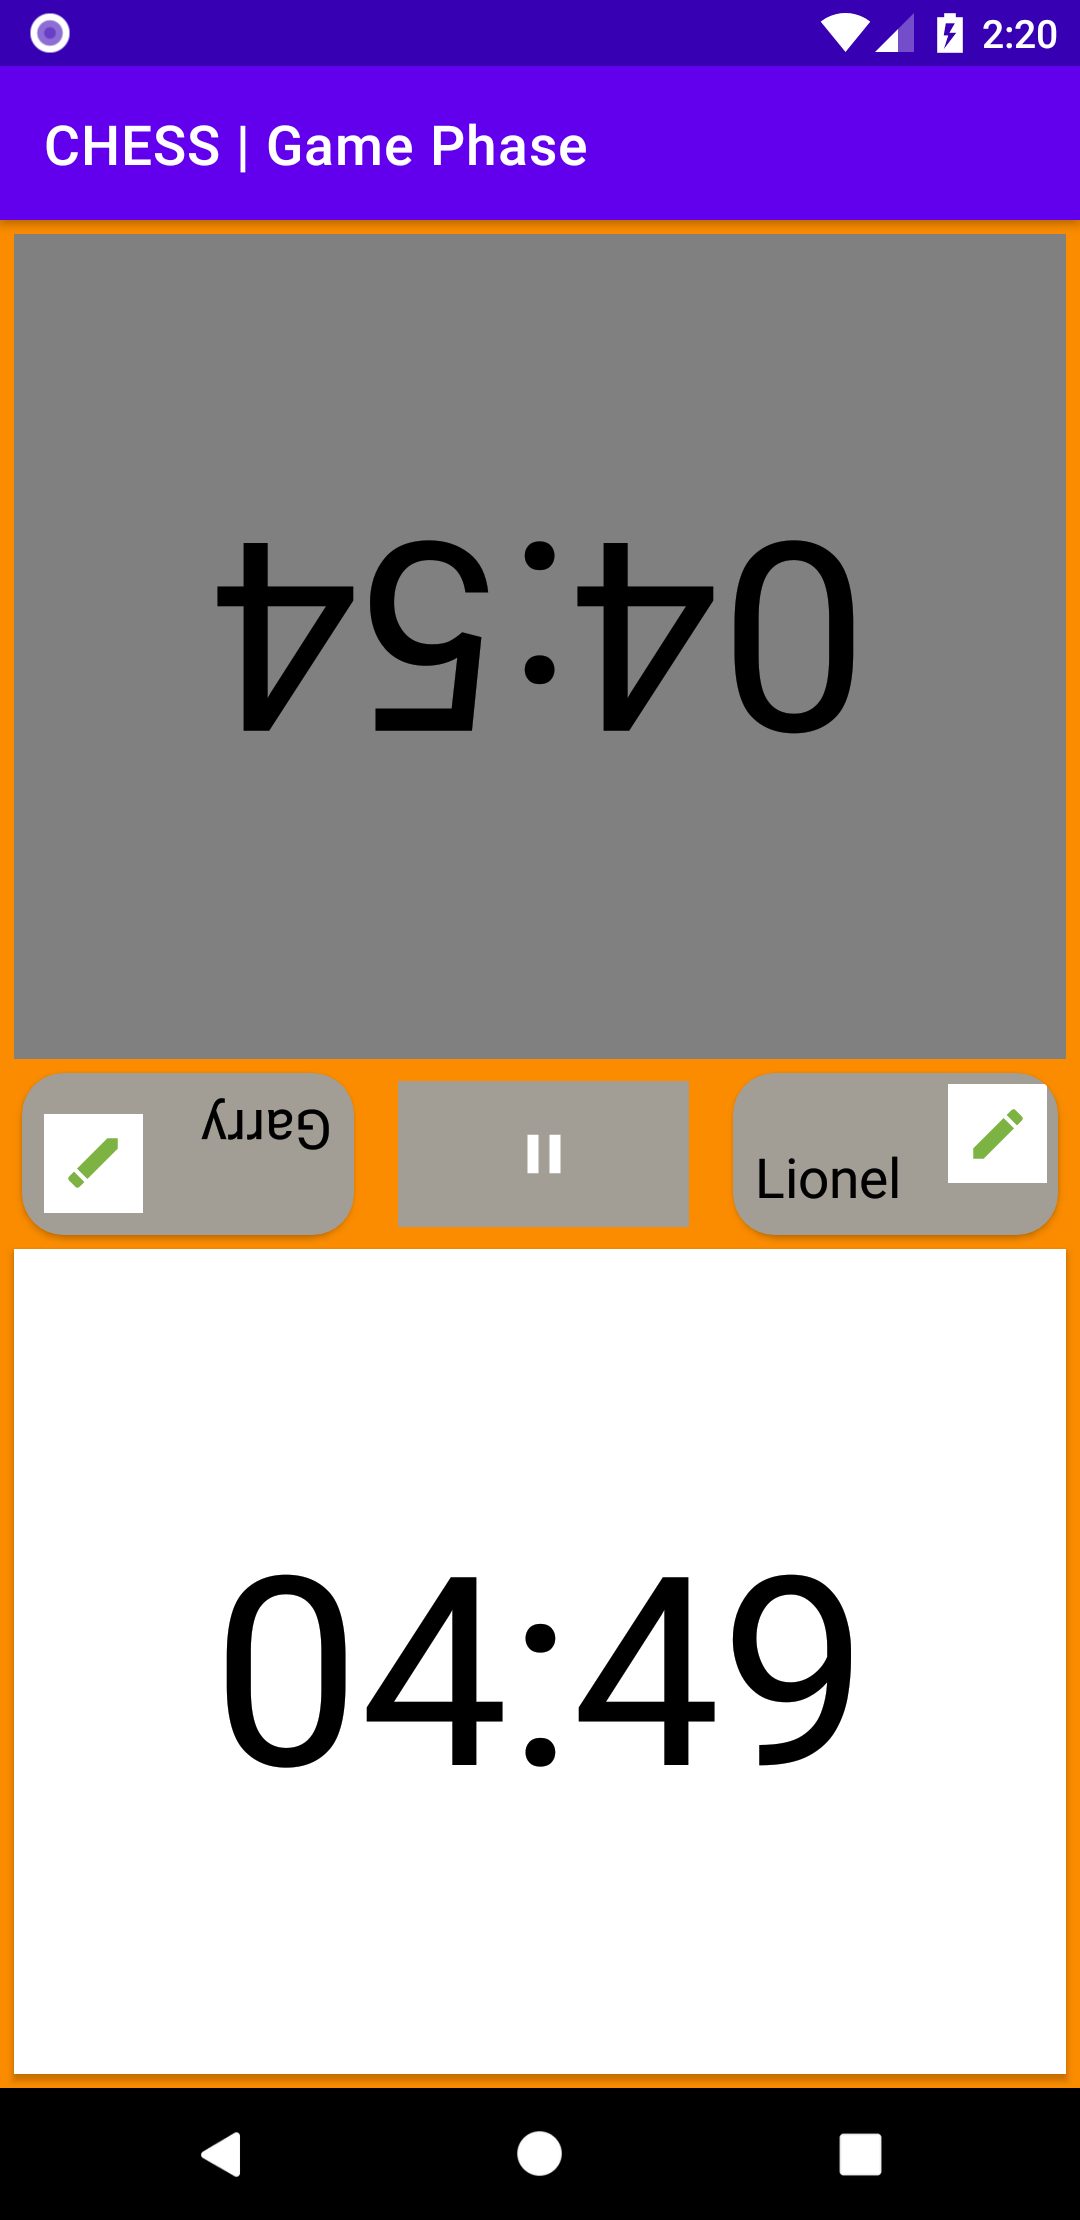
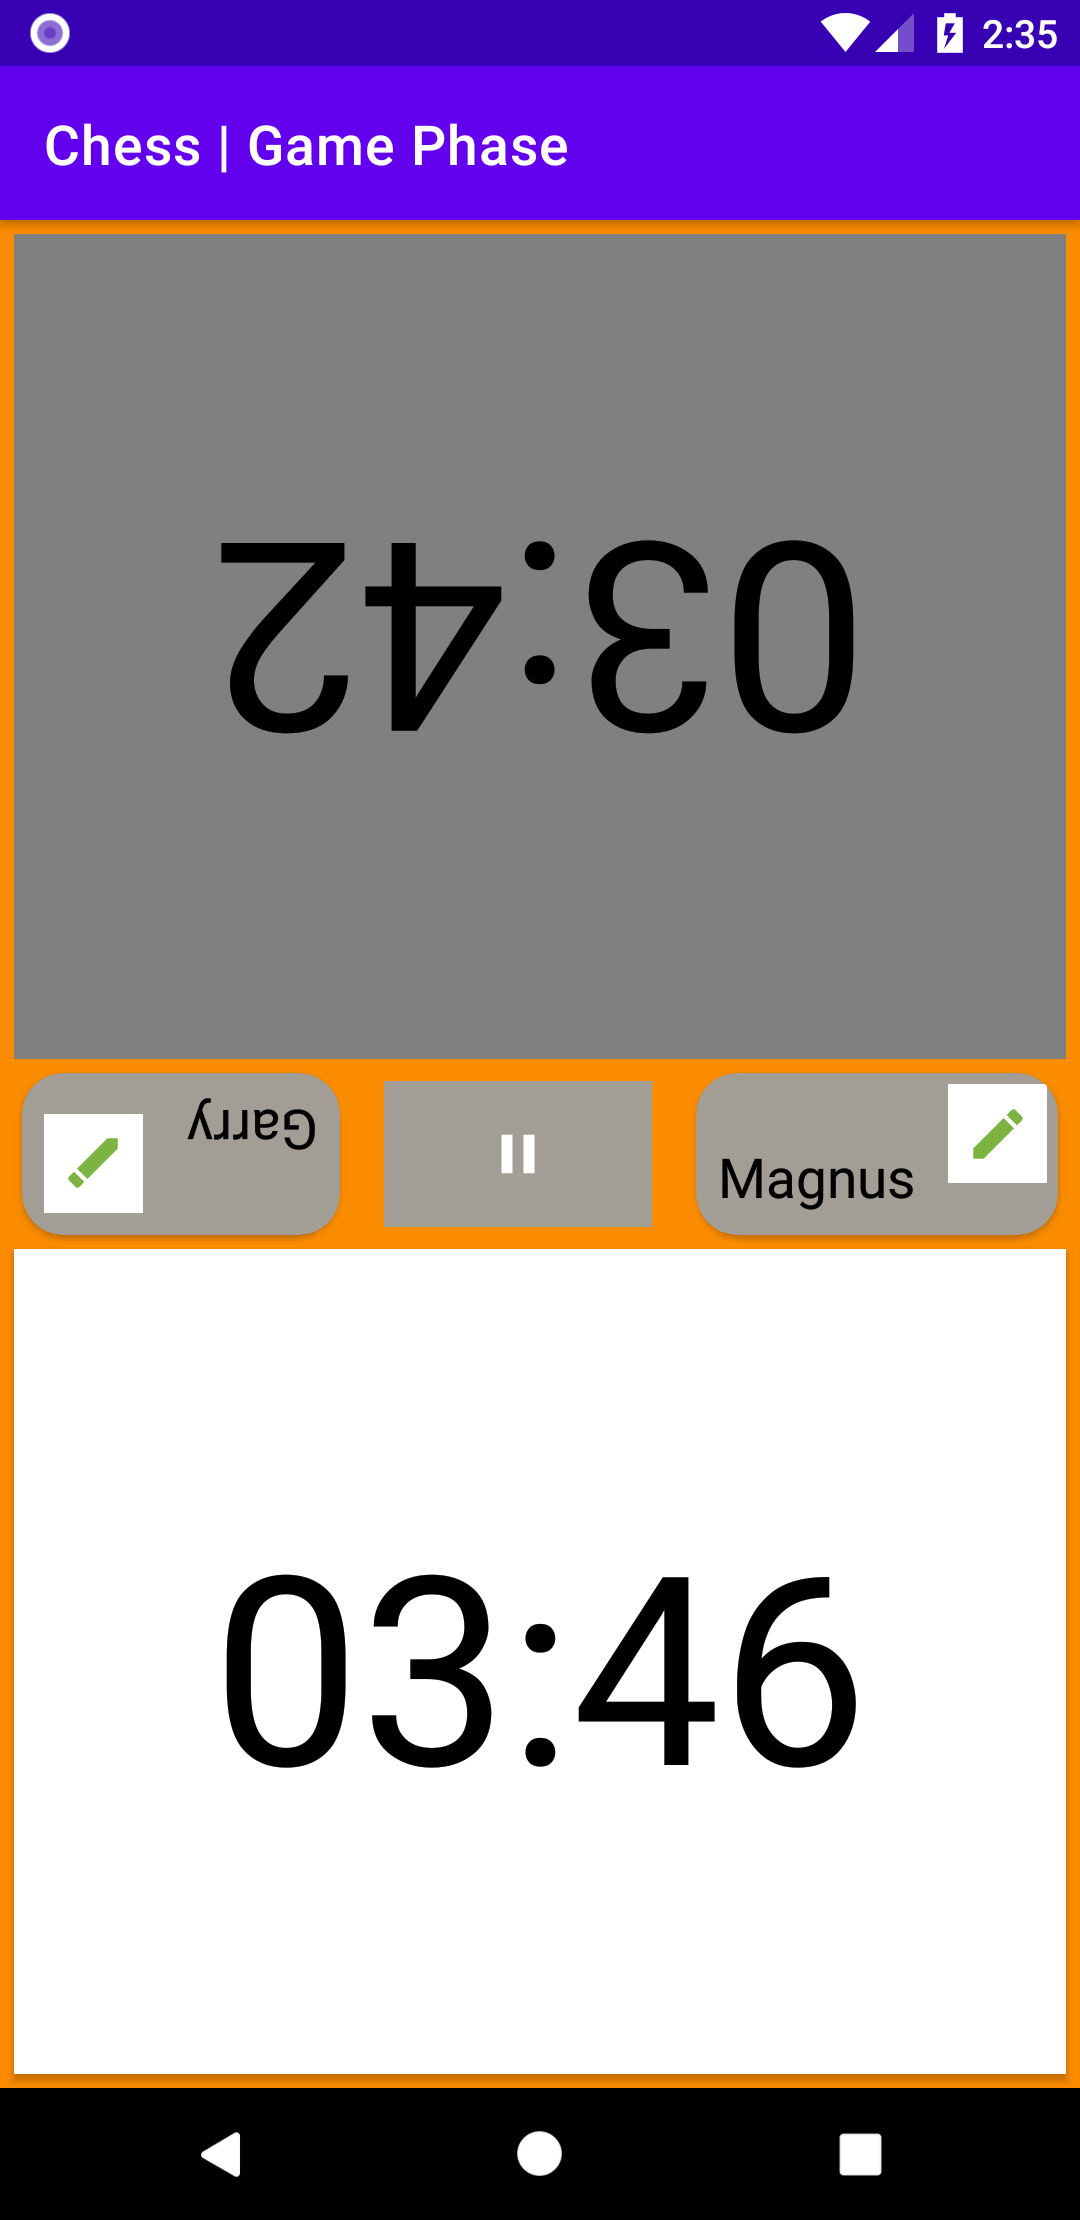
fixed a minor bug, updated a screenshot

diff --git a/app/src/main/java/com/burakcanduzcan/tabletopcompanion/ui/game/GameFragment.kt b/app/src/main/java/com/burakcanduzcan/tabletopcompanion/ui/game/GameFragment.kt
@@ -237,7 +237,7 @@ class GameFragment : Fragment() {
     override fun onResume() {
         super.onResume()
         (requireActivity() as AppCompatActivity).supportActionBar?.title =
-            "${selectedGame.name} | Game Phase"
+            "${requireContext().getString(selectedGame.nameRes)} | Game Phase"
     }
 
     override fun onStop() {
